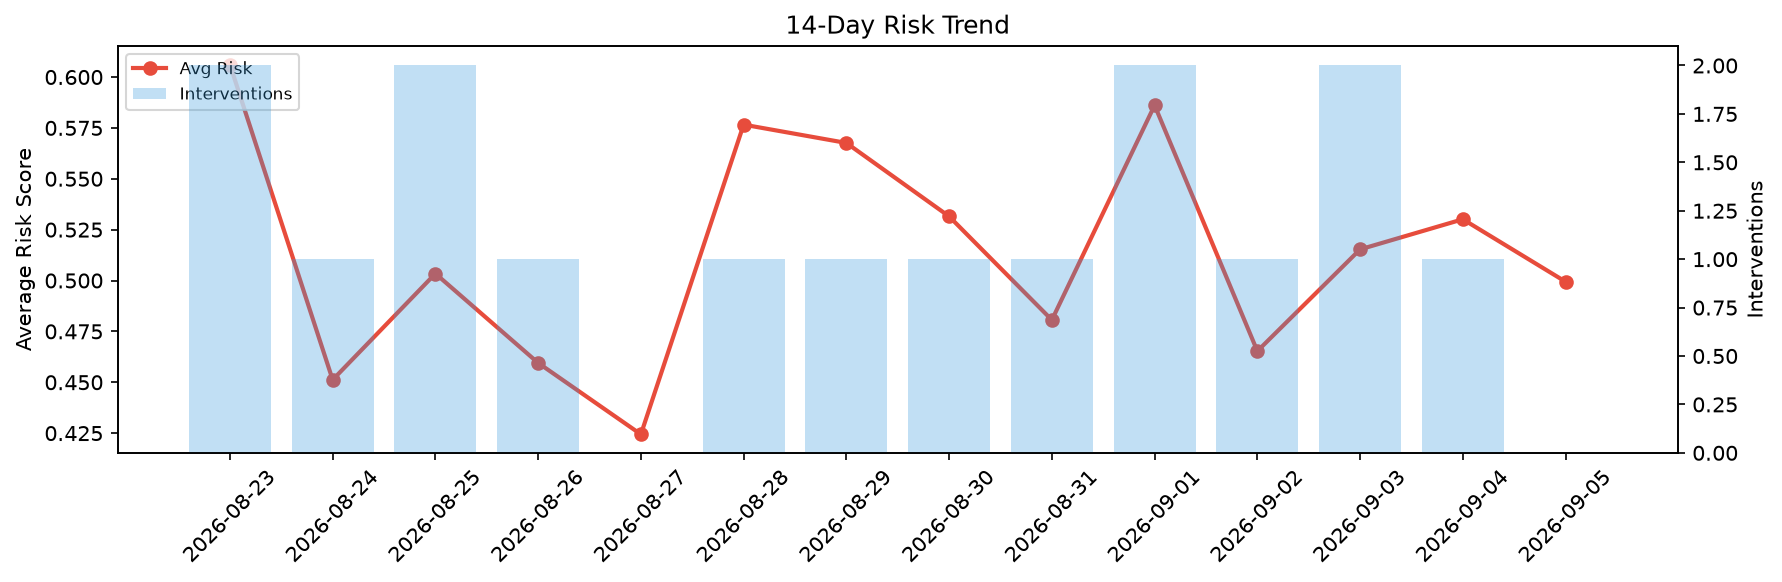
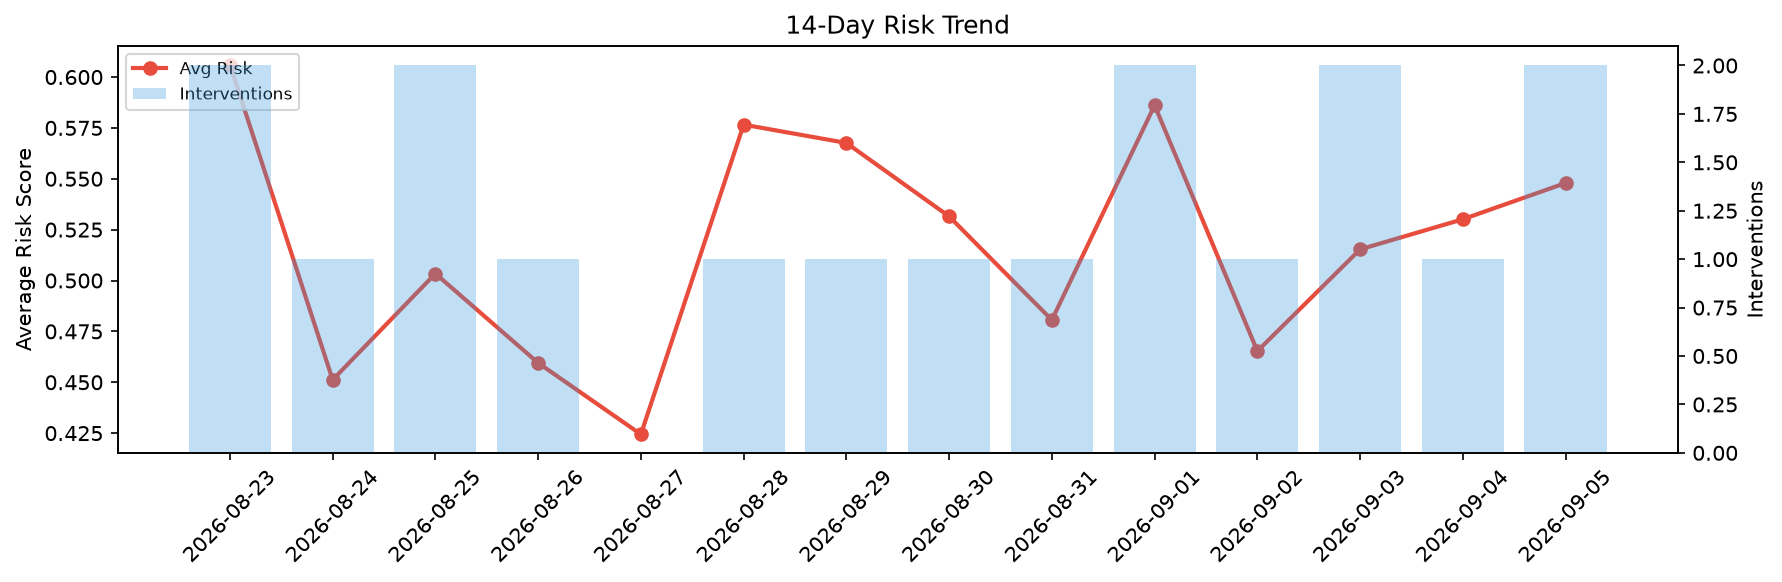
agent-improvement: daily cycle 2026-09-05T16:49

Changed region(s): [[0.8025, 0.0928, 0.9259, 0.8041]]

diff --git a/logs/2026-09-05.md b/logs/2026-09-05.md
@@ -1,6 +1,6 @@
 # Agent Improvement Report — 2026-09-05
 
-**Cycle ID:** `465bcf0b` | **Avg Risk:** 0.4994 | **Interventions:** 0/4
+**Cycle ID:** `1401c459` | **Avg Risk:** 0.5479 | **Interventions:** 2/4
 
 ![Dashboard](2026-09-05_dashboard.png)
 
@@ -10,18 +10,18 @@
 
 | Domain | Risk Score | Decision | Alerts |
 |--------|-----------|----------|--------|
-| code_review | 0.5709 | monitor | complexity |
-| incident_response | 0.5285 | monitor | mttr |
-| data_pipeline | 0.392 | monitor | volume_anomaly |
-| deployment | 0.506 | monitor | canary_error |
+| code_review | 0.698 | intervene | coverage |
+| incident_response | 0.6092 | intervene | blast_radius |
+| data_pipeline | 0.4628 | monitor | schema_drift |
+| deployment | 0.4215 | monitor | canary_error |
 
 ## Delta vs Yesterday
 
 | Domain | Today | Yesterday | Change |
 |--------|-------|-----------|--------|
-| code_review | 0.5709 | 0.5391 | 📈 5.9% |
-| incident_response | 0.5285 | 0.6138 | 📉 -13.9% |
-| data_pipeline | 0.392 | 0.4909 | 📉 -20.1% |
-| deployment | 0.506 | 0.4767 | 📈 6.1% |
+| code_review | 0.698 | 0.5391 | 📈 29.5% |
+| incident_response | 0.6092 | 0.6138 | 📉 -0.7% |
+| data_pipeline | 0.4628 | 0.4909 | 📉 -5.7% |
+| deployment | 0.4215 | 0.4767 | 📉 -11.6% |
 
 **Refinement:** `{'adjustment': 'maintain', 'trend': 'improving', 'window': 4}`
